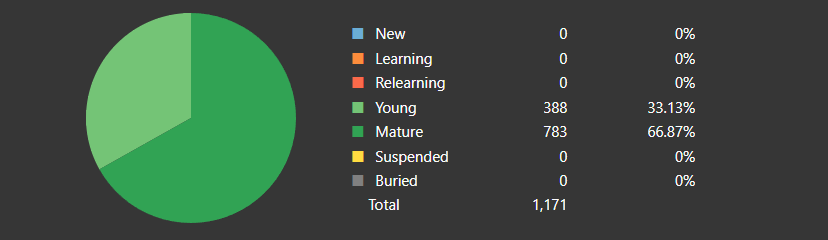
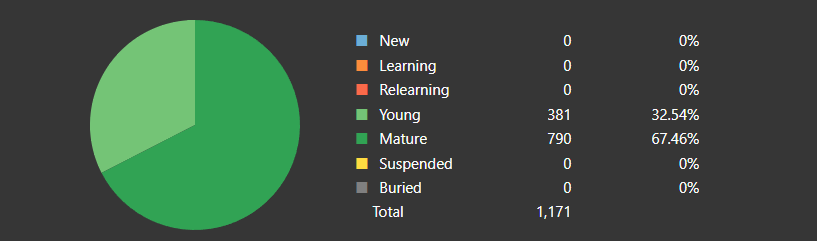
Updating card counts and needs to work on

diff --git a/docs/grammar/home.md b/docs/grammar/home.md
@@ -8,15 +8,9 @@ Here is the page where I keep track of the grammar I'm learning currently.
 
 Working through the rest of N5 grammar as I finished Tango N5. As I wasn't fully focusing on grammar, I forgot some of the grammar points. Here are the ones I need to work on (including new ones as I progress in the N5 grammar):
 
-- **くれる** (To give __me__, to be given)
-- **以上（いじょう）** (More than or equal to, Over and above, Any more, greater, exceeding)
-- **以下（いか）** (Less than or equal to, Under and below, Any less, fewer, not exceeding)
-- **る-Verb (Past)**
-- **～ている** (Has/have done, Is ~ing (Repetition))
-- **始（はじ）める** (To start, to begin with)
+__None at the moment__
+
 
 ### Somewhat good, but not super confident
 
 - **誰 だれ か** (Someone, somewhere, not anyone, not anywhere)
-- **より～の方（ほう）が** (To be more ~ than ~)
-- **う-Verb (Past)** -> I feel pretty confident with these. Still working on the te/ta form here. Keep messing up simple ones
